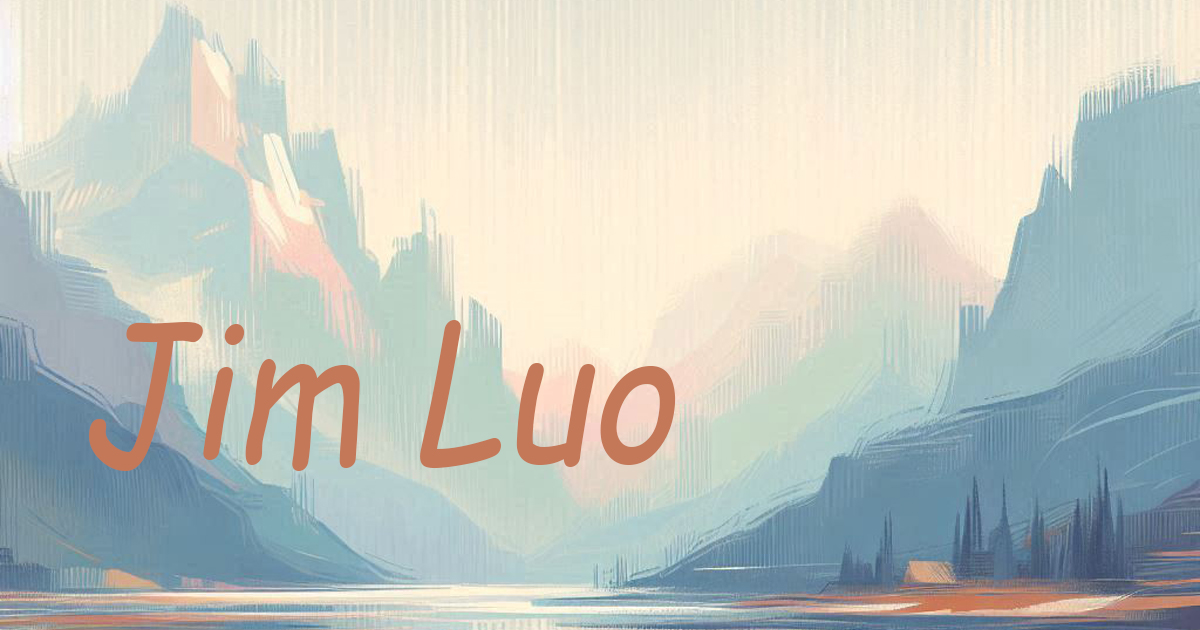
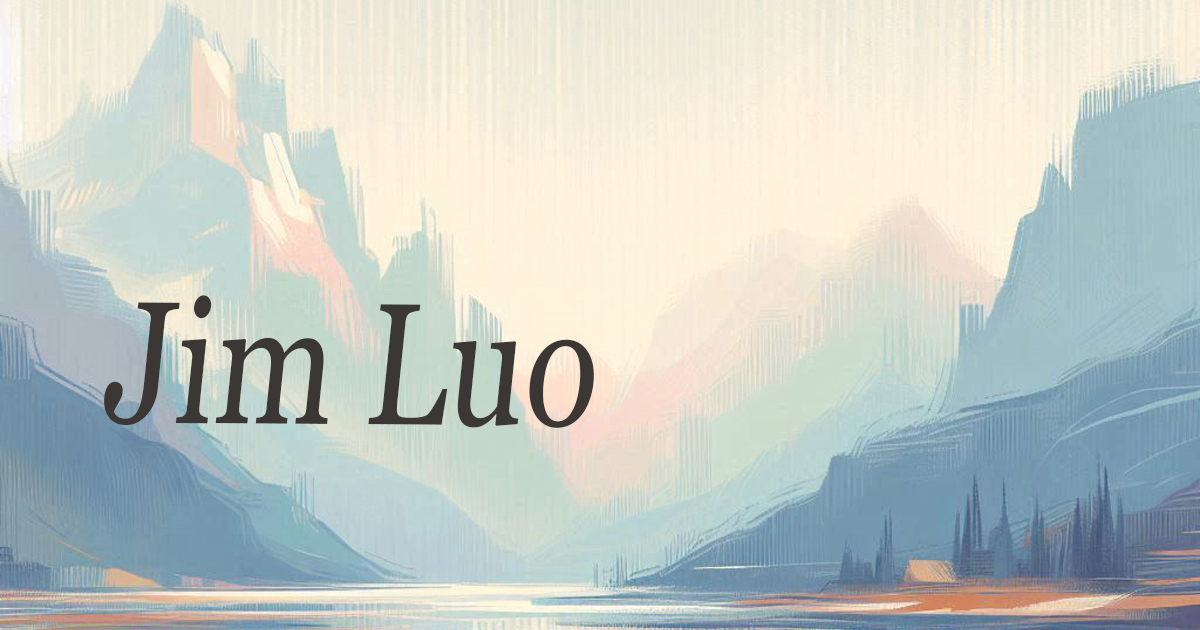
feature: minimal home page

diff --git a/src/styles/global.css b/src/styles/global.css
@@ -1,11 +1,17 @@
 @import "tailwindcss";
 
 @theme {
-	--font-hw: 'Dancing Script';
-	--font-qs: "Noto Sans", sans-serif;
-	--font-slabo: 'Slabo';
-	--color-set1-1: #B7C4CF;
-	--color-set1-2: #EEE3CB;
-	--color-set1-3: #D7C0AE;
-	--color-set1-4: #967E76;
+  --font-hw: "Dancing Script";
+  --font-qs: "Noto Sans", sans-serif;
+  --font-slabo: "Slabo";
+  --color-palette-1: #68869a;
+  --color-palette-2: #e3dfd0;
+  --color-palette-3: #9bb2b5;
+  --color-palette-4: #b3786c;
+  --color-palette-5: #d29d94;
+  --color-palette-6: #bb8974;
+  --color-palette-7: #e0b597;
+  --color-palette-8: #dbb7b5;
+  --color-palette-9: #f3f4ef;
+  --color-palette-10: #7cb4b3;
 }
